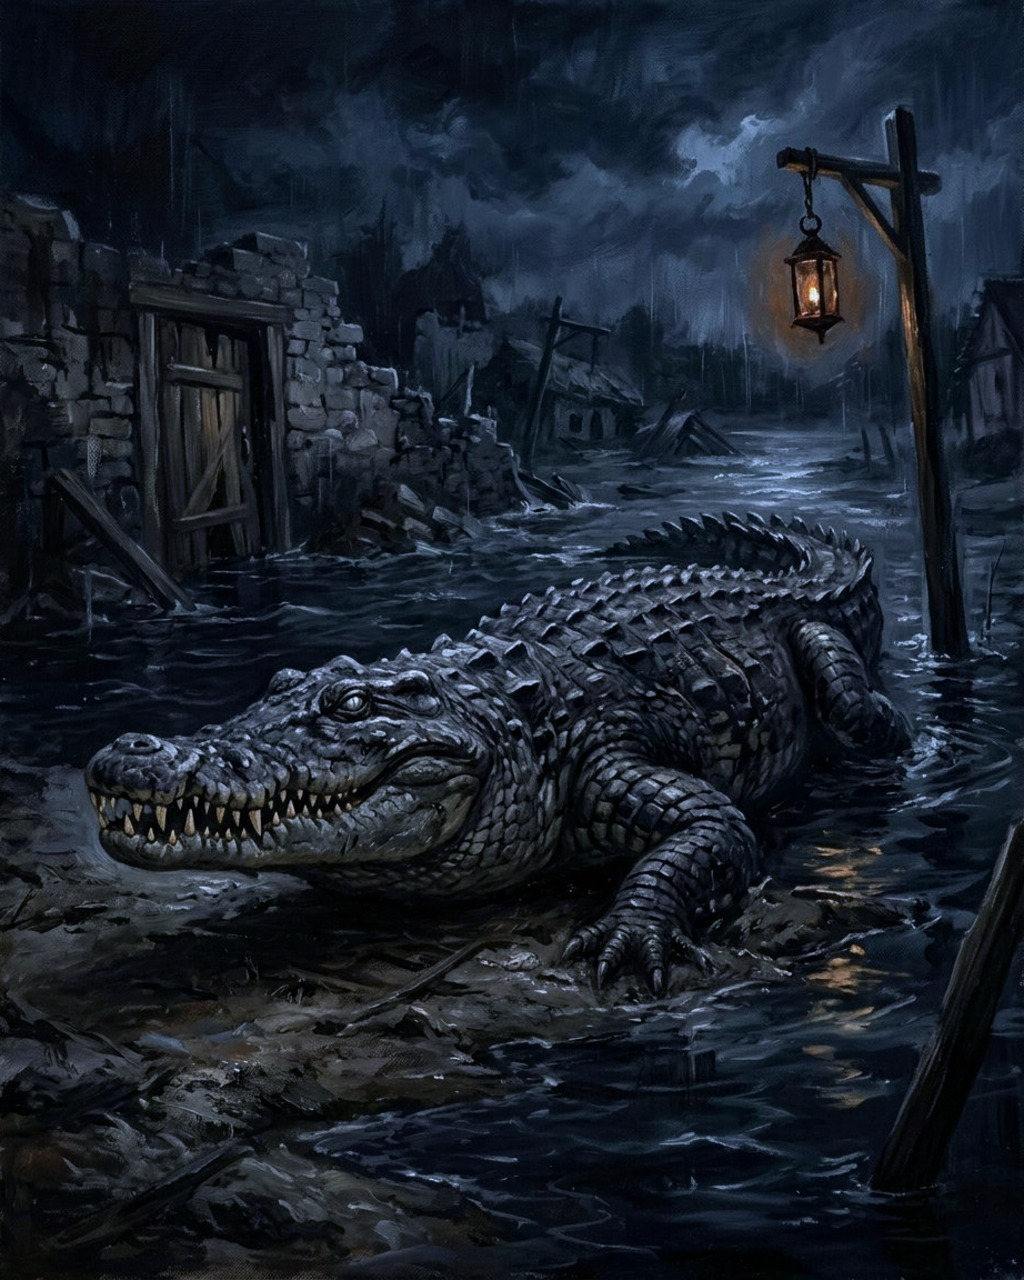
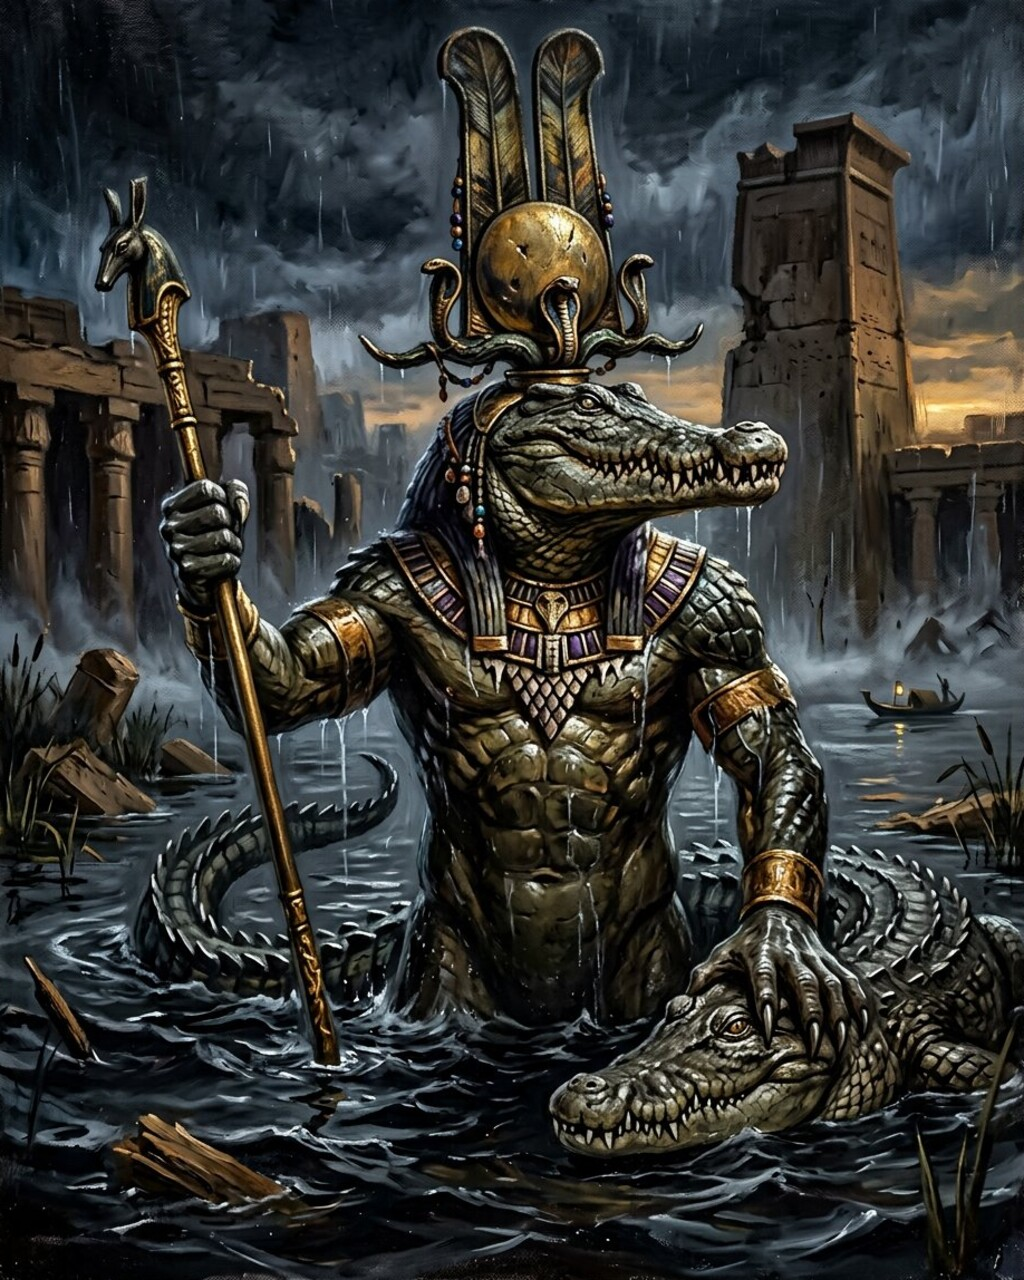
Sablier : Le Seigneur des mâchoires repeint en figure du Nil (Sabek)

diff --git a/tests/rpg-duel.test.js b/tests/rpg-duel.test.js
@@ -4148,6 +4148,31 @@ test('le plein art du Serment est livré : les vingt-neuf cartes Neige sont déd
   }
 });
 
+test('Le Seigneur des mâchoires est la figure du Nil : type, saveur et peinture dédiée', () => {
+  const carte = cardById('seigneur-des-machoires');
+  assert.equal(carte.typeLine, 'Créature légendaire — Souverain crocodile du Nil',
+    'la ligne de type nomme le souverain du fleuve, pas un crocodile anonyme');
+  assert.match(carte.flavor, /fleuve/, 'la saveur parle du fleuve');
+  assert.doesNotMatch(`${carte.name} ${carte.typeLine} ${carte.text} ${carte.flavor}`, /\bdieu(x)?\b/i,
+    'la figure garde son attribut : le mot « dieu » ne s’écrit pas sur la carte');
+  assert.deepEqual(
+    { cost: carte.cost, atk: carte.atk, def: carte.def, tenacite: carte.tenacite, tribut: carte.tribut },
+    { cost: 6, atk: 6, def: 6, tenacite: true, tribut: 2 },
+    'les règles de la carte ne changent pas avec sa peinture',
+  );
+  // Le fichier est celui de la carte (aucune illustration prêtée), livré en 4:5,
+  // et il porte sa propre révision de cache : la peinture du village inondé ne
+  // doit jamais revenir par un cache.
+  assert.equal(cardArtId(carte), 'seigneur-des-machoires');
+  const [largeur, hauteur] = dimensionsJpeg(
+    fileURLToPath(new URL('../public/cards/seigneur-des-machoires.jpg', import.meta.url)),
+  );
+  assert.ok(Math.abs(largeur / hauteur - 4 / 5) < 0.01, `peinture 4:5 (${largeur}×${hauteur})`);
+  const art = readFileSync(new URL('../src/games/rpgCardArt.js', import.meta.url), 'utf8');
+  assert.match(art, /'seigneur-des-machoires': 'tenebres-seigneur-machoires-nil-v2'/,
+    'la nouvelle peinture porte une révision de cache dédiée');
+});
+
 test('les quatre figures du Nord portent leur kenning, jamais le mot « dieu »', () => {
   const figures = RPG_DUEL_CARDS.filter((carte) => carte.kind === 'hero' && carte.element === 'neige');
   assert.equal(figures.length, 4, 'le set Neige a quatre figures légendaires');

diff --git a/src/games/rpgTenebres.js b/src/games/rpgTenebres.js
@@ -266,9 +266,9 @@ export const RPG_TENEBRES_CREATURES = [
     rarity: 'mythique',
     tenacite: true,
     tribut: 2,
-    typeLine: 'Créature légendaire — Crocodile du fleuve',
+    typeLine: 'Créature légendaire — Souverain crocodile du Nil',
     text: 'Tenacité — Une fois par partie, quand il meurt (sauf exilé), il revient en jeu au début de votre prochain tour avec 1 point de défense. Tribut 2 — Quand cette créature touche le sorcier adverse, il perd 2 PV et vous en gagnez 2.',
-    flavor: 'La crue monte sans prévenir ; ce qu’elle prend appartient au limon.',
+    flavor: 'Il tient le fleuve comme on tient une porte : la crue monte, et c’est lui qui décide de ce qu’elle emporte.',
   }),
 ];
 

diff --git a/src/games/rpgCardArt.js b/src/games/rpgCardArt.js
@@ -288,7 +288,10 @@ const CARD_ART_CACHE_VERSIONS = {
   'leviathan': 'eau-souls-bleue-v1',
   'bakunawa': 'eau-souls-bleue-v1',
   'jormungandr': 'eau-souls-bleue-v1',
-  'seigneur-des-machoires': 'eau-souls-bleue-v1',
+  // Le Seigneur des mâchoires est repeint en figure du Nil (Sabek, le
+  // souverain crocodile) : révision dédiée, la peinture du village inondé
+  // reste l'illustration alternative.
+  'seigneur-des-machoires': 'tenebres-seigneur-machoires-nil-v2',
   'vipere-de-verre': 'eau-souls-bleue-v1',
   'tour-des-flots': 'eau-souls-bleue-v1',
   'sonneur-fele': 'eau-souls-bleue-v1',

diff --git a/src/games/RPG-CARD-ART.md b/src/games/RPG-CARD-ART.md
@@ -754,8 +754,10 @@ est déjà bleue, en duel comme en vignette.
   elle, la lune pour seule lumière.
 - **Jörmungandr** — vu d'une falaise, son corps barre tout l'horizon et
   s'enfonce aux deux bouts.
-- **Le Seigneur des mâchoires** — le crocodile de la crue, à demi hissé sur la
-  berge noyée, une lanterne de village pour seule note chaude.
+- **Le Seigneur des mâchoires** — *repeint depuis* (voir plus bas) : il était le
+  crocodile de la crue, à demi hissé sur la berge noyée, une lanterne de village
+  pour seule note chaude. Cette peinture-là a quitté le catalogue ; l'histoire
+  du dépôt la garde (dernière version au commit `5922b4a`, 325 310 octets).
 - **La Vipère de verre** — le serpent de verre sur la margelle d'une citerne,
   ses reflets froids jetés sur la pierre.
 - **La Tour des flots** — la tour seule en mer, démâtée, le ressac qui monte
@@ -965,6 +967,45 @@ reprise autrement — sans forme humaine lisible, un linceul debout.
   ciseau de bronze.
 - **L'Offrande de lin** — les bandes pliées sur l'autel noir, encore marquées
   par un corps.
+
+### La reprise du Seigneur des mâchoires — la figure du Nil (octobre 2026)
+
+Le Seigneur des mâchoires est la figure de **Sabek**, le souverain crocodile du
+Nil, dans le tableau des six grandes figures d'Égypte
+(`docs/rpg/16-deck-la-balance-des-heures.md` §11). Sa peinture ne le montrait
+pas : un simple crocodile dans un village inondé, une lanterne pour seule
+lumière — une bête de crue, pas un souverain du fleuve. La carte est donc
+**repeinte**.
+
+La nouvelle toile le donne à voir, à la nuit tombée, **debout dans la cour
+noyée d'un temple de brique crue** :
+
+- **la tête de crocodile** d'un grand crocodile du Nil, gueule entrouverte sur
+  des dents usées, un œil froid qui accroche la lumière ;
+- **le couvre-chef doré** au disque solaire, encadré de deux uraeus et de deux
+  hautes plumes, l'or bosselé et noirci — jamais un bijou ;
+- **le grand collier** d'or terni, d'os et de verre violet, et les brassards
+  d'or ;
+- **le sceptre ousekh** dans la main droite, la main gauche posée à plat sur
+  le mufle du **second crocodile** qui remonte à sa hauteur, seuls les yeux et
+  les crêtes hors de l'eau ;
+- autour de lui : colonnes à demi submergées, pylône brisé, roseaux et
+  débris flottants, la pluie, et une seule barque à lanterne pour l'échelle.
+
+Rien n'est écrit sur cette peinture : **aucun hiéroglyphe, aucun texte** — la
+règle du set s'applique aussi à la nouvelle toile. Le sujet se lit en vignette :
+la gueule, le disque d'or, l'eau noire.
+
+Révision de cache : **`tenebres-seigneur-machoires-nil-v2`**, déclarée dans
+`rpgCardArt.js`. Sa **légende de carte** suit la figure : le type devient
+« Créature légendaire — Souverain crocodile du Nil », et la saveur nomme le
+fleuve plutôt que la crue d'un village.
+
+L'**illustration alternative** de la carte (`public/cards/alt/seigneur-des-machoires.jpg`,
+achetée au Catalogue, `rpgCardArtAlternatives.js`) reste celle qui existait
+déjà : un souverain crocodile à la haute coiffure d'or et d'émeraude, incrusté
+de gemmes vertes. Elle n'a pas été touchée et ne doit pas l'être : deux
+peintures, deux âges de la carte.
 
 ### Troisième lot : les pesées et la tour — le set est clos
 

diff --git a/docs/rpg/16-deck-la-balance-des-heures.md b/docs/rpg/16-deck-la-balance-des-heures.md
@@ -478,7 +478,7 @@ panthéon égyptien — toujours nommées **par leur attribut** (jamais le mot
 | **Le Faucon du zénith** _(Horus)_ | `faucon-du-zenith` | Sable | 5 | 3/3 | **Envol**, **Attaque ciblée** (30 % contre une créature, 100 % contre le sorcier), **Tribut 1**, **Protection Ténèbres** (permanente) |
 | **La Lionne du midi ardent** _(Sekhmet)_ | `lionne-du-midi-ardent` | Braise | 6 | 4/4 | **Rapidité**, **Protection Eau et Neige** (permanente) ; arrivée : 2 dégâts à toutes les créatures adverses |
 | **La Dame aux ailes d'or** _(Isis)_ | `dame-aux-ailes-d-or` | Sable | 5 | 3/5 | **Envol** ; arrivée : bouclier de lumière ; mort : vous gagnez 4 PV |
-| **Le Seigneur des mâchoires** _(Sobek)_ | `seigneur-des-machoires` | Eau | 6 | 6/6 | **Tenacité**, **Tribut 2** |
+| **Le Seigneur des mâchoires** _(Sobek / Sabek)_ | `seigneur-des-machoires` | Eau | 6 | 6/6 | **Tenacité**, **Tribut 2** — type « Souverain crocodile du Nil » ; sa peinture le montre en figure du fleuve (couronne au disque solaire et aux uraeus, sceptre ousekh, second crocodile à ses côtés), voir `RPG-CARD-ART.md` |
 
 ## Le deck du catalogue (étagère, onglet Deck)
 
